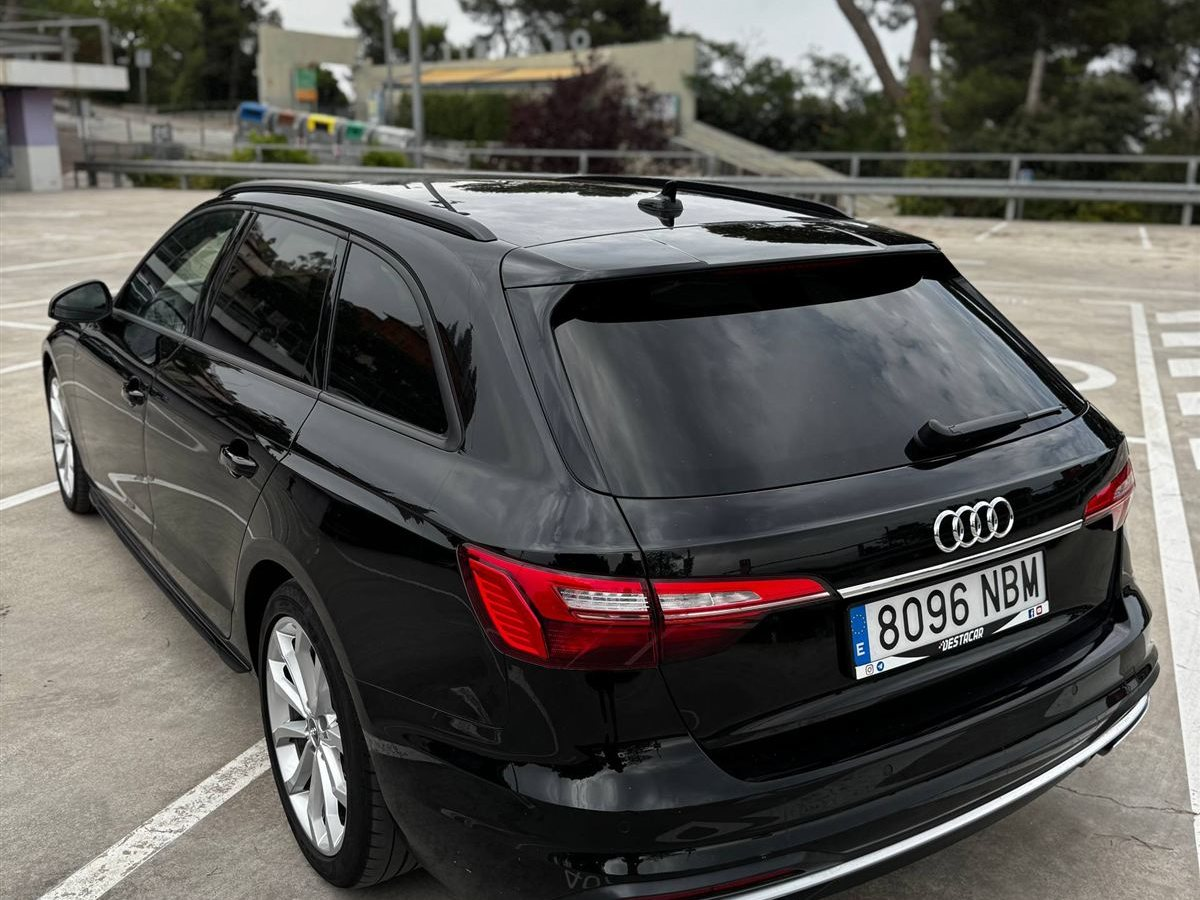
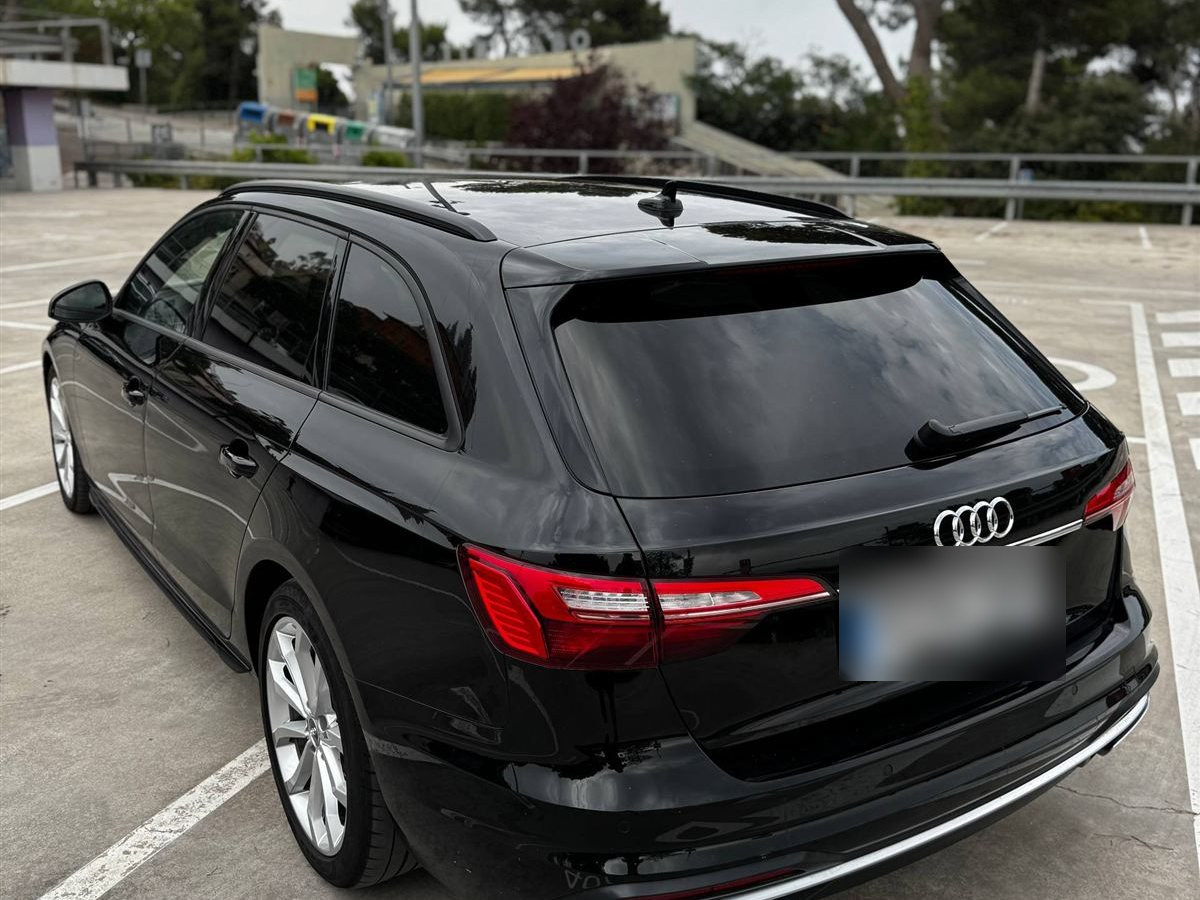
Blur licence plates on all photos; admin contact @stuffdrive; deposit rule and personal-data (GDPR) paragraph in info screen
Claude-Session: https://claude.ai/code/session_01NDuncQN2s3Pp7erKFViQz1

Changed region(s): [[0.6783, 0.5911, 0.8942, 0.7778]]

diff --git a/index.html b/index.html
@@ -750,6 +750,8 @@ body.tg .dots{padding-bottom:calc(10px + var(--safe-bottom));}
              ['🧾','<b>Multas y daños</b> durante el alquiler son responsabilidad del conductor según el contrato.'],
              ['❌','<b>Cancelación</b> gratuita desde la app (✓ arriba). Por favor, avisa con al menos 24 h.'],
              ['🚨','<b>Avería o accidente:</b> contacta con el administrador de inmediato.'],
+             ['🔑','<b>Fianza, edad y antigüedad mínima del carnet, límite de kilometraje y seguro:</b> se acuerdan con el administrador al confirmar la reserva.'],
+             ['🔒','<b>Tus datos.</b> El nombre, el teléfono y el usuario de Telegram que indicas al reservar los usa solo StuffDrive (responsable del tratamiento; contacto: @stuffdrive) para gestionar tu reserva. Se guardan en una base de datos protegida y en el calendario de reservas, los ven solo los administradores y no se ceden a terceros. Los conservamos 12 meses después de terminar el alquiler (por posibles multas y reclamaciones) y luego los eliminamos. Para consultarlos o borrarlos antes, escribe a @stuffdrive.'],
              ['🔔','Pulsa <b>Start</b> en @stuffdrivebot para recibir confirmaciones por Telegram.']],
       svcTitle:'Nuestros servicios', svcNote:'Precios y detalles — con el administrador.',
       services:[['✈','Entrega en aeropuerto / hotel','Llevamos y recogemos el coche donde te convenga: aeropuerto El Prat, estación, hotel.'],
@@ -799,6 +801,8 @@ body.tg .dots{padding-bottom:calc(10px + var(--safe-bottom));}
              ['🧾','<b>Fines and damage</b> during the rental are the driver’s responsibility under the contract.'],
              ['❌','<b>Free cancellation</b> in the app (✓ at the top). Please give at least 24 h notice.'],
              ['🚨','<b>Breakdown or accident:</b> contact the admin immediately.'],
+             ['🔑','<b>Deposit, minimum driver age and licence history, mileage limit and insurance:</b> agreed with the admin when the booking is confirmed.'],
+             ['🔒','<b>Your data.</b> The name, phone and Telegram username you enter when booking are used only by StuffDrive (data controller; contact: @stuffdrive) to handle your booking. They are stored in a protected database and the bookings calendar, visible to admins only, and never shared with third parties. We keep them for 12 months after the rental ends (for possible fines and claims) and then delete them. To see or delete your data earlier, message @stuffdrive.'],
              ['🔔','Press <b>Start</b> in @stuffdrivebot to get confirmations in Telegram.']],
       svcTitle:'Our services', svcNote:'Prices and details — ask the admin.',
       services:[['✈','Airport / hotel delivery','We bring and collect the car wherever suits you: El Prat airport, train station, hotel.'],
@@ -848,6 +852,8 @@ body.tg .dots{padding-bottom:calc(10px + var(--safe-bottom));}
              ['🧾','<b>Штрафы и повреждения</b> во время аренды — ответственность водителя по договору.'],
              ['❌','<b>Отмена</b> бесплатно в приложении (✓ вверху). Пожалуйста, предупреждайте минимум за 24 часа.'],
              ['🚨','<b>Поломка или ДТП:</b> сразу свяжитесь с администратором.'],
+             ['🔑','<b>Залог, минимальный возраст и стаж водителя, лимит пробега и страховка:</b> уточняются с администратором при подтверждении брони.'],
+             ['🔒','<b>Ваши данные.</b> Имя, телефон и ник Telegram, указанные при бронировании, использует только StuffDrive (контролёр данных; контакт: @stuffdrive) для работы с вашей бронью. Они хранятся в защищённой базе и в календаре броней, видны только администраторам и третьим лицам не передаются. Храним 12 месяцев после окончания аренды (на случай штрафов и споров), затем удаляем. Посмотреть или удалить свои данные раньше — напишите @stuffdrive.'],
              ['🔔','Нажмите <b>Start</b> у @stuffdrivebot, чтобы получать подтверждения в Telegram.']],
       svcTitle:'Наши услуги', svcNote:'Стоимость и детали — у администратора.',
       services:[['✈','Подача авто в аэропорт / отель','Привезём и заберём машину там, где вам удобно: аэропорт El Prat, вокзал, отель.'],
@@ -1794,7 +1800,7 @@ body.tg .dots{padding-bottom:calc(10px + var(--safe-bottom));}
   });
   function renderInfo(){
     const L = T();
-    const link = window.SUPPORT_LINK || 'https://t.me/StuffDive';
+    const link = window.SUPPORT_LINK || 'https://t.me/stuffdrive';
     $('infoRules').innerHTML =
       `<div class="info-h">${esc(L.howTitle)}</div>` +
       L.steps.map((t,i)=>`<div class="step"><div class="n">${i+1}</div><div class="t">${t}</div></div>`).join('') +

diff --git a/firebase-config.js b/firebase-config.js
@@ -9,4 +9,4 @@ window.FIREBASE_CONFIG = {
 window.NOTIFY_WEBHOOK = "https://script.google.com/macros/s/AKfycbwAOinpNUXY5NIAW-vznHcZ0AEatdC-zaZcaUQwwSpgIqbyTU68hZAOVcsH5mb4LY4ZKQ/exec";
 
 // Куда клиент пишет по вопросам/проблемам (кнопка «Написать администратору» в разделе Инфо).
-window.SUPPORT_LINK = "https://t.me/StuffDive";
+window.SUPPORT_LINK = "https://t.me/stuffdrive";
